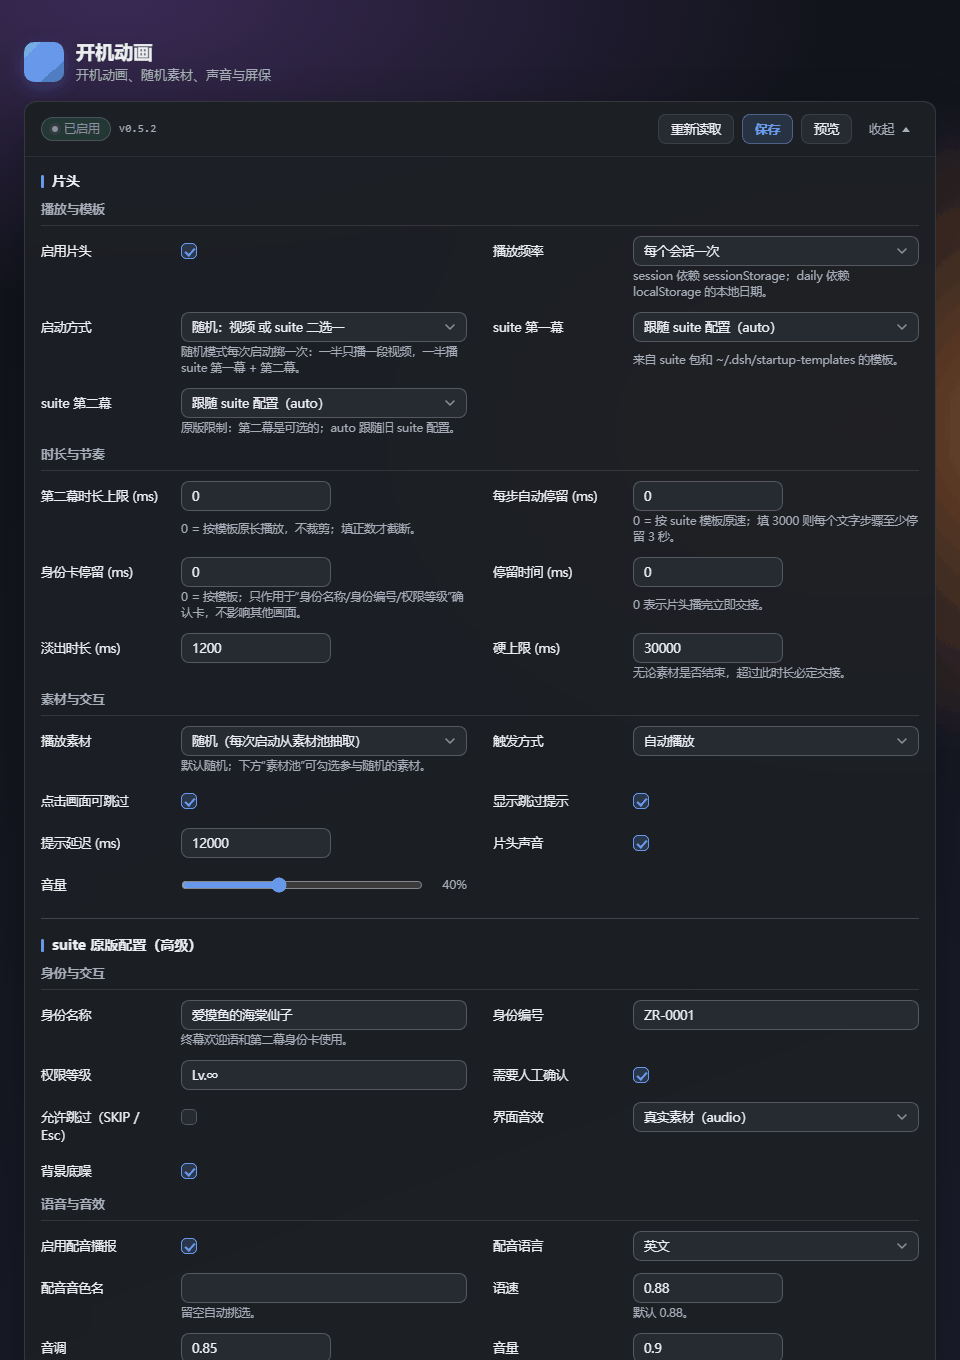
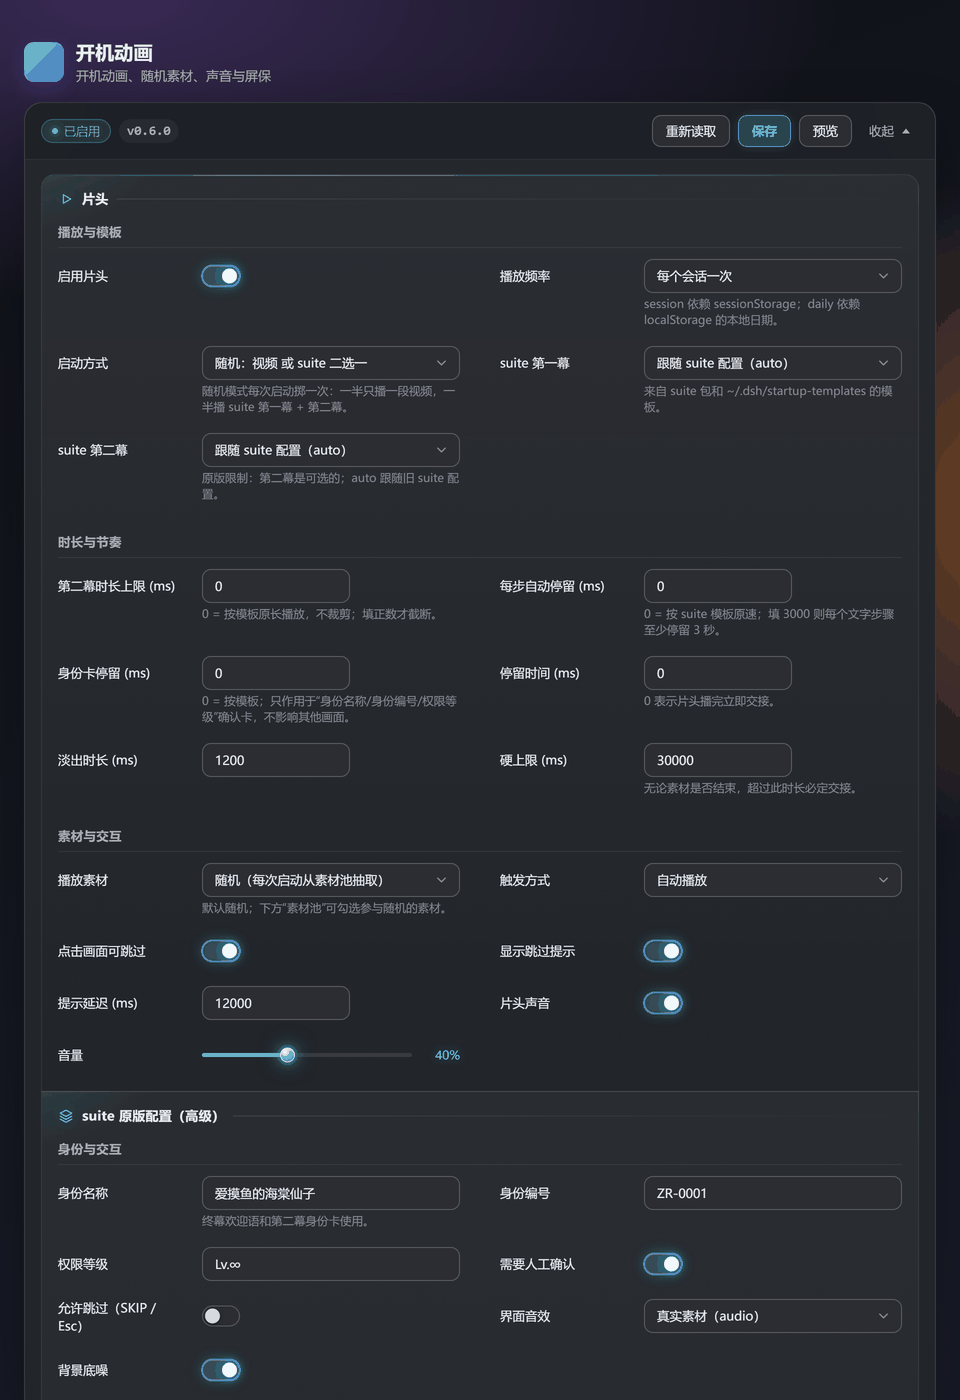
docs: 0.6.0 截图与版本记录
- 设置卡截图换成 0.6.0 实渲染（960x1400，256 色量化 226KB）
- 工具条截图换成 13px 版本徽章版本
- README 徽章/当前版本/版本记录补 0.6.0

diff --git a/README.md b/README.md
@@ -8,7 +8,7 @@
 
 给 DeepSeek Harness 的一套开机仪式：每次启动只播一件事，所有参数都在一张卡片里改。
 
-[![version](https://img.shields.io/badge/version-0.5.5-7c8cff?style=flat-square)](package.json)
+[![version](https://img.shields.io/badge/version-0.6.0-7c8cff?style=flat-square)](package.json)
 [![license](https://img.shields.io/badge/license-MIT-3fb950?style=flat-square)](LICENSE)
 [![tests](https://img.shields.io/badge/tests-67%2F67-3fb950?style=flat-square)](#验证状态)
 [![platform](https://img.shields.io/badge/DeepSeek%20Harness-plugin-8b5cf6?style=flat-square)](https://github.com/zeki520/dsh-boot-nexus)
@@ -66,7 +66,10 @@ dsh plugin --profile desktop add "file:$env:USERPROFILE/dsh-plugins/dsh-boot-nex
 
 - 10 个分区、93 个控件，全部平铺，不需要二次展开；
 - 两列字段网格，窄窗口自动降为单列；
-- 所有控件有可访问名称，错误与保存状态通过 live region 播报。
+- 分区做成卡片：卡头带小图标与发光线，卡片之间共边，整块读作一张玻璃面；
+- 开关、下拉、滑杆、输入框全部重绘：开关带青色发光，滑杆显示已填充比例，聚焦时描边点亮；
+- 所有控件有可访问名称，错误与保存状态通过 live region 播报；
+- 表面色由 `color-mix` 从前景色派生，深色/浅色宿主自适应，不依赖 `color-scheme` 探测。
 
 ---
 
@@ -312,8 +315,9 @@ suite 的两幕都由 suite 自己的 `splash.js` 负责，nexus 不会在 suite
 
 ## 版本记录
 
-当前 `0.5.5`：67 个单测通过，suite 原版引擎与 animation 随机池均实机通过；旧插件仍保留但已禁用，删除它们不影响 nexus。
+当前 `0.6.0`：67 个单测通过，suite 原版引擎与 animation 随机池均实机通过；旧插件仍保留但已禁用，删除它们不影响 nexus。
 
+- `0.6.0` 设置卡视觉重构：深空玻璃面板与卡片化分区、开关式 checkbox、圆润 chevron 下拉、光晕滑杆与聚焦发光；表面色全部由 `color-mix` 从前景色派生，不再猜测宿主主题；
 - `0.5.5` 修复新装用户 suite 六幕无人声：默认 `voicePack` 落在不存在的 `a` 包（路由 404），现在统一归一化为随包发布的 `f`；卡片里的音色选项标签同时改为「英文 F（默认）/ 日文 1–5」；
 - `0.5.4` 自带素材改为原画质：不再转码，直接打包 720p / 1440p / 4K 原片（197 MB，安装包约 256 MB）；
 - `0.5.3` 包内自带默认素材：5 段片头 + 7 段屏保（720p / 1080p，共约 42 MB），首次启动复制到素材目录并写入 `.bundled-media.json` 标记，之后不再重复播种、也不复活用户手动删掉的文件；
